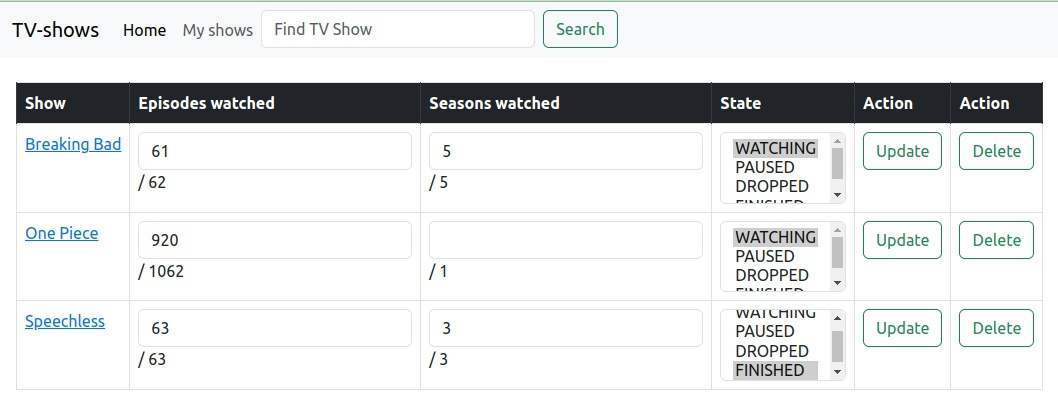
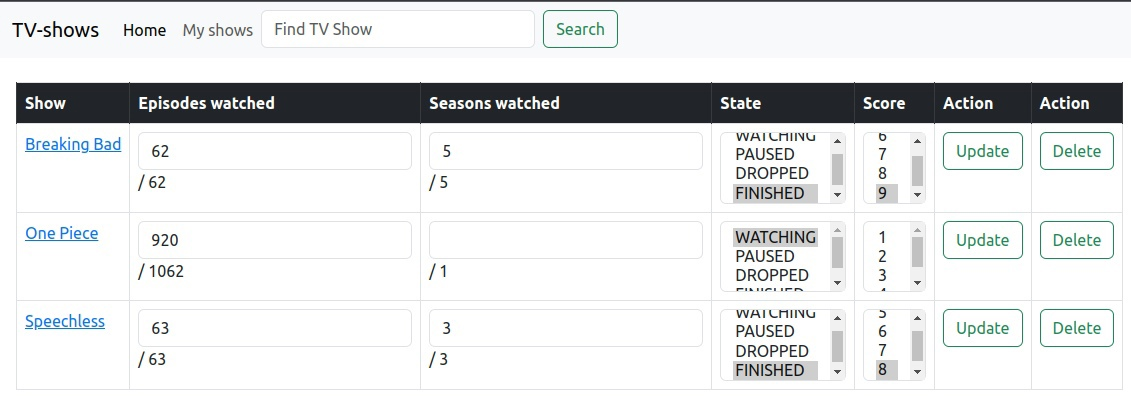
MAIN Added show watch score

diff --git a/services/shows-frontend-service/src/main/resources/templates/myShows.html b/services/shows-frontend-service/src/main/resources/templates/myShows.html
@@ -17,6 +17,7 @@
         <th class="table-dark">Episodes watched</th>
         <th class="table-dark">Seasons watched</th>
         <th class="table-dark">State</th>
+        <th class="table-dark">Score</th>
         <th class="table-dark">Action</th>
         <th class="table-dark">Action</th>
     </tr>
@@ -42,6 +43,10 @@
                         th:selected="${record.state==state}"></option>
             </select></td>
             </td>
+            <td><select class="form-select" size="3" name="score">
+                <option th:each="score: ${scores}" th:value="${score}" th:text="${score}"
+                        th:selected="${record.score==score}"></option>
+            </select></td>
             <td>
                 <button class="btn btn-outline-success" type="submit">Update</button>
             </td>

diff --git a/services/shows-frontend-service/src/main/resources/templates/addShowUser.html b/services/shows-frontend-service/src/main/resources/templates/addShowUser.html
@@ -13,6 +13,7 @@
         <th class="table-dark">Episodes watched</th>
         <th class="table-dark">Seasons watched</th>
         <th class="table-dark">State</th>
+        <th class="table-dark">Score</th>
         <th class="table-dark">Action</th>
     </tr>
     <tr>
@@ -25,6 +26,9 @@
                     th:text="${show.seasonsCount}"></th:block></div></td>
             <td><select class="form-select" size="3" name="state">
                 <option th:each="state: ${states}" th:value="${state}" th:text="${state}"></option>
+            </select></td>
+            <td><select class="form-select" size="3" name="score">
+                <option th:each="score: ${scores}" th:value="${score}" th:text="${score}"></option>
             </select></td>
             </td>
             <td>

diff --git a/common/data/src/main/java/com/demo/showcase/common/data/UserShowsRepository.java b/common/data/src/main/java/com/demo/showcase/common/data/UserShowsRepository.java
@@ -27,7 +27,7 @@ public class UserShowsRepository extends BaseRepository<UserShowsEntity> {
     public List<GetUserShowsResponse> getUserShows(UUID userId) {
         return em.createQuery("""
                               select new com.demo.showcase.common.dto.GetUserShowsResponse(u.id, u.showId, s.title, u.seasonsWatched, 
-                              u.episodesWatched, s.seasonsCount, s.episodesCount, u.state)
+                              u.episodesWatched, s.seasonsCount, s.episodesCount, u.state, u.score)
                               from UserShowsEntity u
                               inner join ShowEntity s on u.showId = s.id 
                               where u.userId = :userId and u.isDeleted = false
@@ -59,6 +59,10 @@ public class UserShowsRepository extends BaseRepository<UserShowsEntity> {
         if (dto.getState() != null) {
             querySb.append(", u.state = :state");
             params.put("state", dto.getState());
+        }
+        if (dto.getScore() != null) {
+            querySb.append(", u.score = :score");
+            params.put("score", dto.getScore());
         }
         querySb.append(" where u.showId =:showId");
         querySb.append(" and u.userId =: userId and u.isDeleted = false");

diff --git a/services/shows-frontend-service/src/main/java/com/demo/showcase/front/controller/FrontController.java b/services/shows-frontend-service/src/main/java/com/demo/showcase/front/controller/FrontController.java
@@ -78,6 +78,8 @@ public class FrontController {
         try {
             ShowView show = showsDataFeignClient.findShowInfoById(KeycloakUtils.getBearerToken(), id);
             List<WatchState> states = dictionariesFeignClient.getStates(KeycloakUtils.getBearerToken());
+            List<Integer> scores = dictionariesFeignClient.getScores(KeycloakUtils.getBearerToken());
+            model.addAttribute("scores", scores);
             model.addAttribute("states", states);
             model.addAttribute("show", show);
             return "addShowUser";
@@ -116,6 +118,8 @@ public class FrontController {
         try {
             List<GetUserShowsResponse> records = usersShowsFeignClient.getUserShows(KeycloakUtils.getBearerToken());
             List<WatchState> states = dictionariesFeignClient.getStates(KeycloakUtils.getBearerToken());
+            List<Integer> scores = dictionariesFeignClient.getScores(KeycloakUtils.getBearerToken());
+            model.addAttribute("scores", scores);
             model.addAttribute("states", states);
             model.addAttribute("records", records);
             return "myShows";

diff --git a/common/data/src/main/java/com/demo/showcase/common/data/UserShowsEntity.java b/common/data/src/main/java/com/demo/showcase/common/data/UserShowsEntity.java
@@ -1,13 +1,11 @@
 package com.demo.showcase.common.data;
 
-import com.demo.showcase.common.enums.ShowGenre;
-import com.demo.showcase.common.enums.ShowStage;
 import com.demo.showcase.common.enums.WatchState;
 import lombok.Getter;
 import lombok.Setter;
 import lombok.ToString;
+import org.hibernate.validator.constraints.Range;
 
-import java.time.LocalDate;
 import java.util.UUID;
 import javax.persistence.Column;
 import javax.persistence.Entity;
@@ -45,5 +43,9 @@ public class UserShowsEntity {
     @Column(name = "state")
     @Enumerated(EnumType.STRING)
     private WatchState state;
+
+    @Column(name = "score")
+    @Range(min = 1, max = 10)
+    private Integer score;
 
 }

diff --git a/services/shows-data-service/src/main/java/com/demo/showcase/sds/controller/DictionariesApiController.java b/services/shows-data-service/src/main/java/com/demo/showcase/sds/controller/DictionariesApiController.java
@@ -9,6 +9,7 @@ import org.springframework.web.bind.annotation.RestController;
 
 import java.util.Arrays;
 import java.util.List;
+import java.util.stream.IntStream;
 
 @RestController
 @RequiredArgsConstructor
@@ -30,5 +31,12 @@ public class DictionariesApiController implements DictionariesApi {
     public List<WatchState> getStates() {
         return Arrays.stream(WatchState.values())
                      .toList();
+    }
+
+    @Override
+    public List<Integer> getScores() {
+        return IntStream.rangeClosed(1, 10)
+                        .boxed()
+                        .toList();
     }
 }

diff --git a/common/feign-clients/src/main/java/com/demo/showcase/common/feign/DictionariesFeignClient.java b/common/feign-clients/src/main/java/com/demo/showcase/common/feign/DictionariesFeignClient.java
@@ -14,6 +14,9 @@ import java.util.List;
 @FeignClient(value = "dictionariesClient", url = "${http-clients.backend-url}")
 public interface DictionariesFeignClient {
 
+    @RequestMapping(method = RequestMethod.GET, value = "/api/dictionaries/scores")
+    List<Integer> getScores(@RequestHeader("Authorization") String bearerToken);
+
     @RequestMapping(method = RequestMethod.GET, value = "/api/dictionaries/watchStates")
     List<WatchState> getStates(@RequestHeader("Authorization") String bearerToken);
 

diff --git a/common/dto/src/main/java/com/demo/showcase/common/dto/UsersShowRequest.java b/common/dto/src/main/java/com/demo/showcase/common/dto/UsersShowRequest.java
@@ -4,6 +4,8 @@ import com.demo.showcase.common.enums.WatchState;
 import lombok.Data;
 
 import java.util.UUID;
+import javax.validation.constraints.Max;
+import javax.validation.constraints.Min;
 import javax.validation.constraints.NotNull;
 import javax.validation.constraints.Positive;
 
@@ -20,6 +22,10 @@ public class UsersShowRequest {
     @NotNull
     private Integer episodesWatched;
 
+    @NotNull
     private WatchState state;
 
+    @Min(1)
+    @Max(10)
+    private Integer score;
 }

diff --git a/services/shows-data-service/src/main/java/com/demo/showcase/sds/api/DictionariesApi.java b/services/shows-data-service/src/main/java/com/demo/showcase/sds/api/DictionariesApi.java
@@ -27,4 +27,8 @@ public interface DictionariesApi {
     @GetMapping("/watchStates")
     @Operation(summary = "Получение списка статусов шоу в списке юзера")
     List<WatchState> getStates();
+
+    @GetMapping("/scores")
+    @Operation(summary = "Получение возможных оценок")
+    List<Integer> getScores();
 }

diff --git a/services/shows-data-service/src/main/java/com/demo/showcase/sds/service/UsersDataService.java b/services/shows-data-service/src/main/java/com/demo/showcase/sds/service/UsersDataService.java
@@ -57,6 +57,7 @@ public class UsersDataService {
         userShowsEntity.setEpisodesWatched(request.getEpisodesWatched());
         userShowsEntity.setSeasonsWatched(request.getSeasonsWatched());
         userShowsEntity.setState(request.getState());
+        userShowsEntity.setScore(request.getScore());
         return userShowsEntity;
     }
 

diff --git a/common/dto/src/main/java/com/demo/showcase/common/dto/GetUserShowsResponse.java b/common/dto/src/main/java/com/demo/showcase/common/dto/GetUserShowsResponse.java
@@ -26,4 +26,6 @@ public class GetUserShowsResponse {
 
     private WatchState state;
 
+    private Integer score;
+
 }
